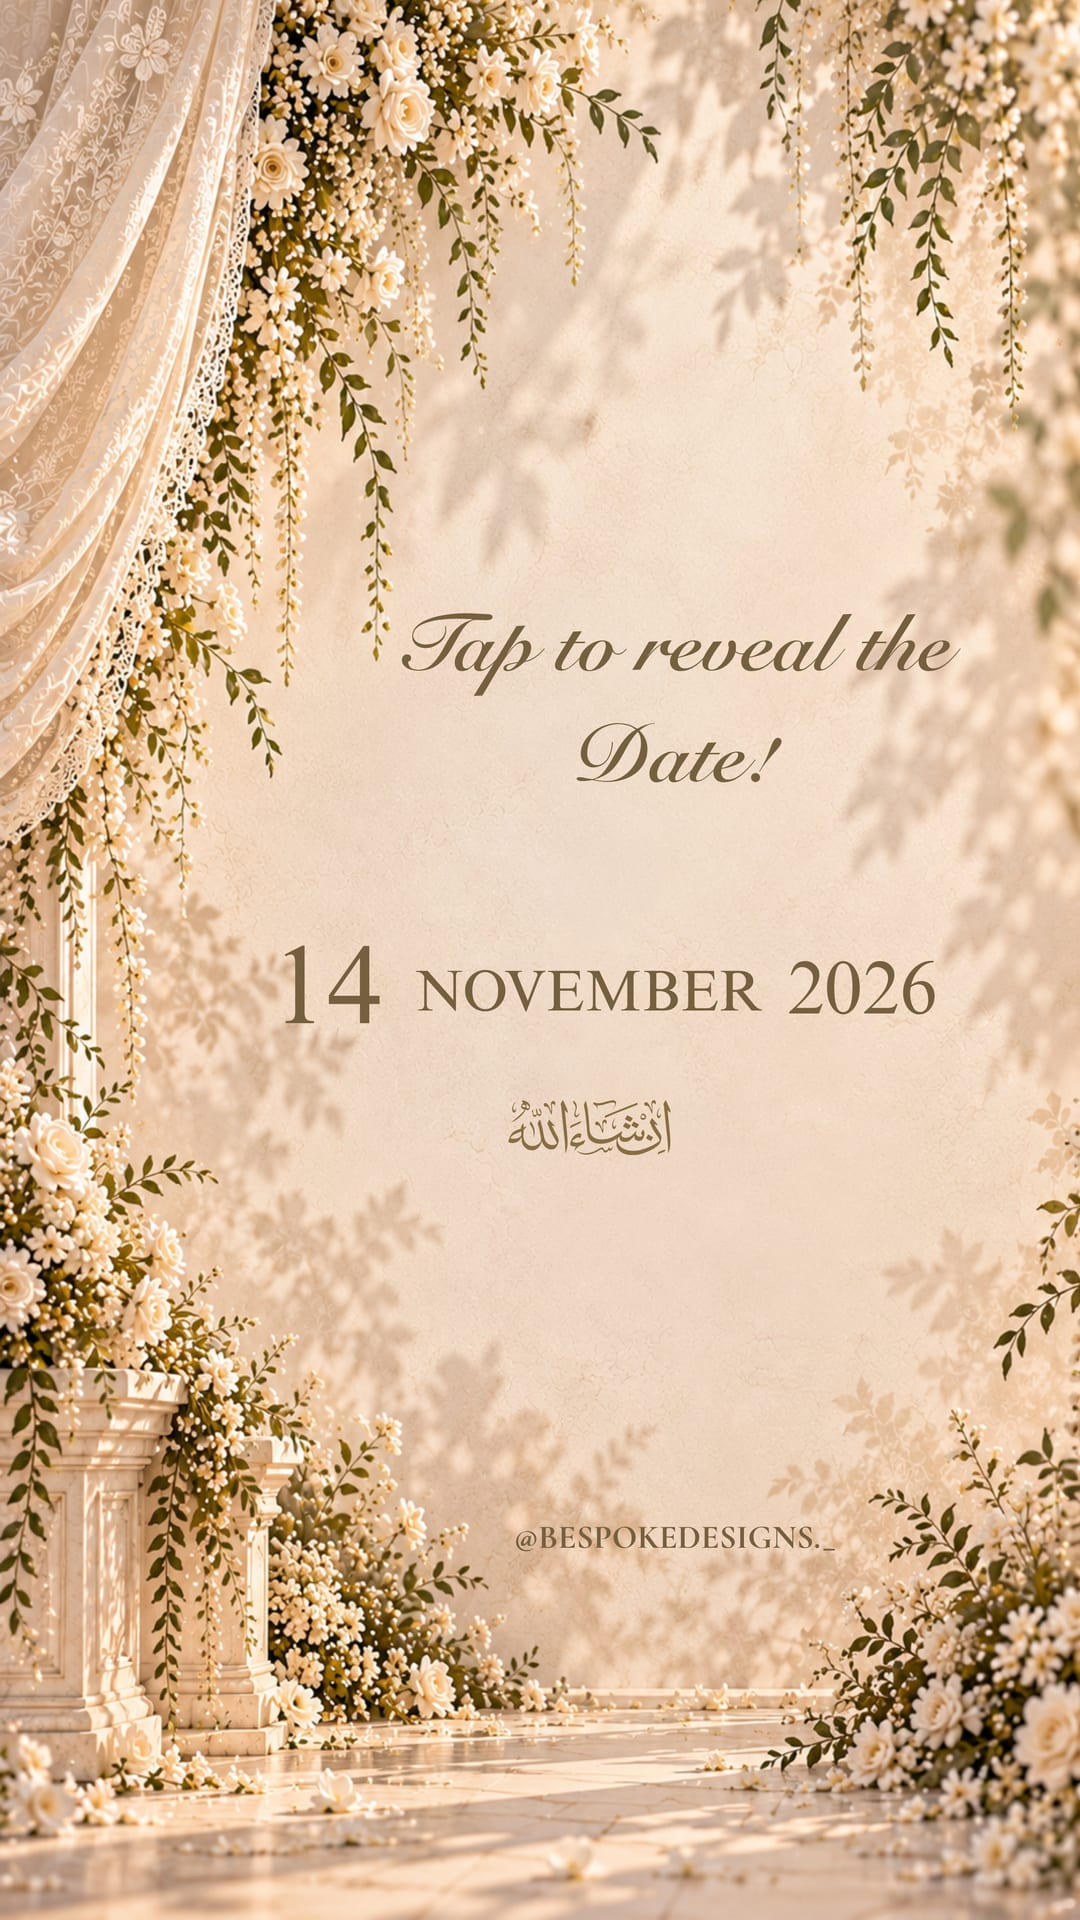
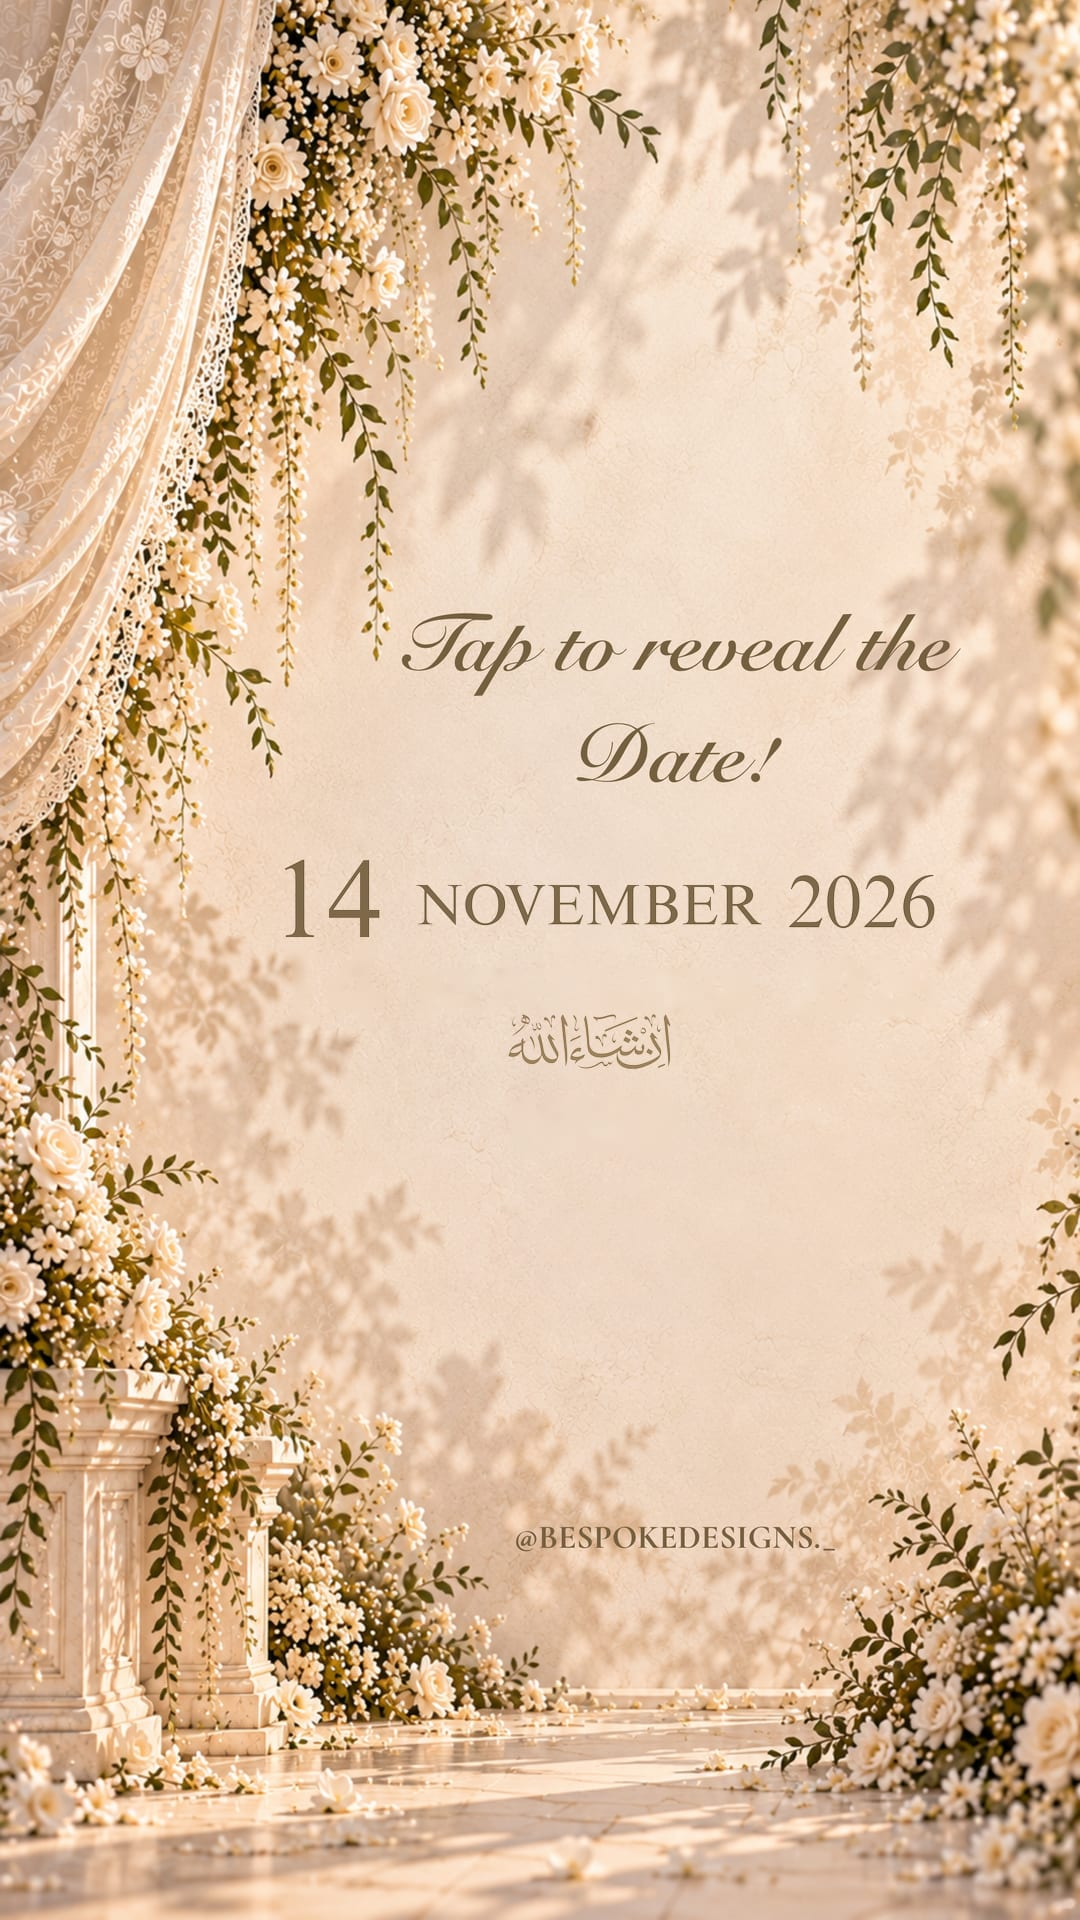
Close the gap above the date: lift the printed date and Arabic
optimize-images now lifts the date line and إن شاء الله on 03-date by
4.5% (ink lifted with its anti-aliasing, wall rebuilt behind it), so the
gaps under "Date!" and under the date are equal. Veil, tap dot, glow and
countdown move up to match; the countdown sits evenly between the
Arabic and the credit.

Changed region(s): [[0.3972, 0.4375, 0.7028, 0.625], [0.7333, 0.4375, 0.8861, 0.5312], [0.275, 0.4375, 0.3667, 0.5312]]

diff --git a/src/styles/scenes.css b/src/styles/scenes.css
@@ -195,8 +195,8 @@
   mask-composite: intersect;
   overflow: hidden;
 }
-.veil-date { left: 12%; top: 43.5%; width: 88%; height: 14%; }
-.veil-ar { left: 36%; top: 53.6%; width: 36%; height: 11%; }
+.veil-date { left: 12%; top: 42.4%; width: 88%; height: 9.8%; }
+.veil-ar { left: 40%; top: 50.6%; width: 30%; height: 7.6%; }
 .veil-shimmer {
   position: absolute;
   inset: 0;
@@ -214,8 +214,8 @@
 /* Gold glint riding the edge of the wipe */
 .date-glint {
   position: absolute;
-  top: 45%;
-  height: 11%;
+  top: 43.6%;
+  height: 7%;
   left: 12%;
   width: 3.4cqw;
   translate: -50% 0;
@@ -230,7 +230,7 @@
 .date-tap {
   position: absolute;
   left: 56%;
-  top: 51%;
+  top: 48.6%;
   width: 16cqw;
   aspect-ratio: 1;
   translate: -50% -50%;
@@ -265,7 +265,7 @@
 .date-bloom {
   position: absolute;
   left: 56%;
-  top: 53%;
+  top: 48.6%;
   width: 90cqw;
   height: 26cqh;
   translate: -50% -50%;
@@ -351,12 +351,12 @@
 
 /* Countdown merged onto the date page, in the open wall under إن شاء الله.
    Centred on the printed date line (x 25–87%, centre 56%) and as wide as it,
-   spaced evenly between إن شاء الله (ends 61.5%) and the credit (79.5%). */
+   spaced evenly between إن شاء الله (ends 55.6%) and the credit. */
 .countdown-block {
   position: absolute;
   left: 25%;
   width: 62%;
-  top: 62.7%;
+  top: 59.9%;
   text-align: center;
   color: var(--olive);
   text-shadow: 0 0 1.6cqw rgba(248, 241, 228, 0.9);
